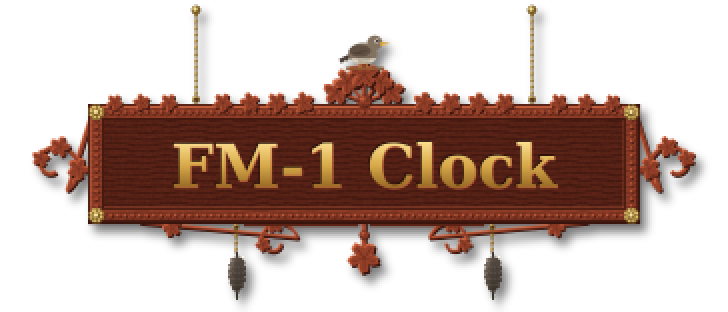
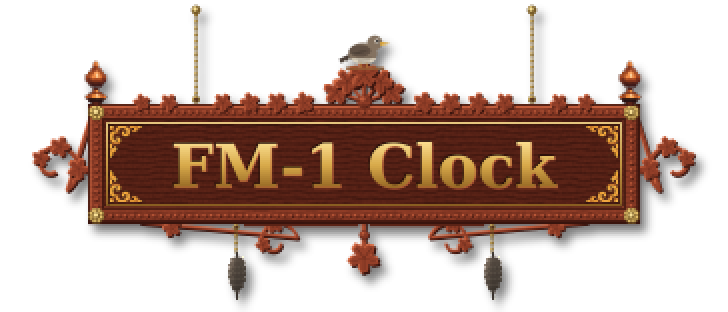
The sign takes the wall clock's gold: its scrollwork, a gilt fillet, its finials
From the wall clock's design, as it is on the screen: the gold scrollwork
from round its dial in the four corners of the sign's field (mirrored),
a gilt fillet round the field as round its window, and its turned finial
on each of the board's top corners. The cuckoo clock's carving stays.

Claude-Session: https://claude.ai/code/session_01MBzS5euR2B3mDuerG2FLdG

Changed region(s): [[0.0907, 0.2019, 0.8764, 0.6635], [0.8159, 0.2019, 0.9066, 0.375]]

diff --git a/tools/gen_sign.py b/tools/gen_sign.py
@@ -7,10 +7,12 @@
 Drawn as the clocks are (tools/gen_art_cuckoo.py, its own helpers): at the screen's scale, 8 x 8 samples a pixel,
 then twice the size, pixel for pixel, as the pictures of the clocks on the page are; on nothing (its background
 transparent), so it hangs on the page, its soft shadow on the page. Carved as the cuckoo clock is, in its dark red
-walnut (lighter: it hangs on the dark page), and then some: a crest of leaves at the top with the cuckoo on it, leaves along the top edge, a frame of
-carved beads round a sunk field, brass rosettes in its corners, scrolls curling out at either end; the letters cut
-in and gilded; under it fretwork, two scrolls and a leaf hanging on a stem between, and
-two pine cones on their chains; it hangs from two brass nails on two chains.
+walnut (lighter: it hangs on the dark page), and then some: a crest of leaves at the top with the cuckoo on it,
+leaves along the top edge, a frame of carved beads round a sunk field, brass rosettes in its corners, scrolls curling
+out at either end; the letters cut in and gilded. And from the wall clock (its design, assets/design.png, as it is
+on the screen): its gold scrollwork from round its dial in the field's corners, a gilt fillet round the field as
+round its window, its turned finial on each top corner. Under it fretwork, two scrolls and a leaf hanging on a stem
+between, and two pine cones on their chains; it hangs from two brass nails on two chains.
 --check: fail if docs/screens/sign.png is not what this makes.
 """
 import argparse
@@ -21,6 +23,7 @@ from pathlib import Path
 import numpy as np
 from PIL import Image, ImageFilter, ImageFont
 
+import gen_art as GA                             # (the wall clock's: its gold scrollwork, its finial, from the design)
 import gen_art_cuckoo as A
 
 ROOT = Path(__file__).resolve().parents[1]
@@ -138,6 +141,25 @@ def over(img, spr, x0, y0):
     reg[...] = spr + reg * (1 - spr[..., 3:])
 
 
+def from_design(box, mask, scale):
+    """a piece of the wall clock's design (assets/design.png) as a sprite: its pixels where mask is, scaled to the
+    screen as the clock is (premultiplied RGBA)"""
+    im = np.asarray(Image.open(GA.SRC).convert("RGB")).astype(np.float32)
+    x0, y0, x1, y1 = box
+    m = mask(im)[y0:y1, x0:x1].astype(np.float32)
+    pre = np.concatenate([im[y0:y1, x0:x1] / 255 * m[..., None], m[..., None]], axis=2)
+    w, h = int(round((x1 - x0) * scale)), int(round((y1 - y0) * scale))
+    return np.stack([np.asarray(Image.fromarray(pre[..., c], "F").resize((w, h), Image.BOX)) for c in range(4)], axis=2)
+
+
+def spandrel(im):
+    """the gold scrollwork in the corners round the wall clock's dial (and its dark edge), not the dial"""
+    R, G, B = im[..., 0], im[..., 1], im[..., 2]
+    yy, xx = np.mgrid[0:im.shape[0], 0:im.shape[1]]
+    off = np.hypot(xx - GA.HUB[0], yy - GA.HUB[1]) > GA.RING_R + 4
+    return GA.dilate((R > 150) & (G > 90) & (R - B > 90) & (G - B > 40) & off, 2) & off
+
+
 def build():
     cv = A.Canvas(W, H)
     for hx in HOOKS:                              # the chains: from the two nails straight down to the board's rings
@@ -179,12 +201,17 @@ def build():
     cv.rect(fx0, fy0, fx1, fy1, A.wood(SW_D, SW_X, False, 302, period=3.0))
     cv.rect(fx0, fy1 - 0.6, fx1, fy1, SW_L, 0.35)
     cv.rect(fx1 - 0.6, fy0, fx1, fy1, SW_L, 0.25)
+    g = gold(fy0, fy1)                            # a gilt fillet round the field, as round the wall clock's window
+    for x0_, y0_, x1_, y1_ in ((fx0 + 1.2, fy0 + 1.2, fx1 - 1.2, fy0 + 1.9), (fx0 + 1.2, fy1 - 1.9, fx1 - 1.2, fy1 - 1.2),
+                               (fx0 + 1.2, fy0 + 1.2, fx0 + 1.9, fy1 - 1.2), (fx1 - 1.9, fy0 + 1.2, fx1 - 1.2, fy1 - 1.2)):
+        cv.rect(x0_ + 0.35, y0_ + 0.4, x1_ + 0.35, y1_ + 0.4, (20, 6, 3), 0.7)
+        cv.rect(x0_, y0_, x1_, y1_, g)
     for x, y in ((BX0 + 4.2, BY0 + 4.2), (BX1 - 4.2, BY0 + 4.2), (BX0 + 4.2, BY1 - 4.2), (BX1 - 4.2, BY1 - 4.2)):
         rosette(cv, x, y, 4.2)                    # brass rosettes in the corners, over the beads
     for hx in HOOKS:                              # the rings the chains hang from, on its top
         ring(cv, hx, BY0 - 2.2)
     for s_ in (-1, 1):                            # leaves along the top edge, turned out in turn, smaller to the ends
-        for i, t in enumerate(np.arange(30.0, 128.0, 13.5)):
+        for i, t in enumerate(np.arange(30.0, 118.0, 13.5)):
             if abs(t - abs(HOOKS[0] - CX)) < 7:
                 continue                          # (not over the rings)
             leaf(cv, CX + s_ * t, BY0 - 0.6, 5.6 - 1.6 * t / 128, s_ * (40 if i % 2 else 12))
@@ -215,6 +242,15 @@ def build():
     cn = cone()
     for s_ in (-1, 1):
         over(scr, cn, int(round(CX + s_ * 64 - cn.shape[1] / 2)), int(round(BY1 + 14)))
+    # the wall clock's: its gold scrollwork from round its dial in the field's corners, its finials on the board's
+    sp = from_design((418, 298, 524, 404), spandrel, 240 / 1254 * 0.9)      # top corners
+    sh_, sw_ = sp.shape[:2]
+    for flip, x, y in (((), fx0 + 2, fy0 + 2), ((1,), fx1 - 2 - sw_, fy0 + 2), ((0,), fx0 + 2, fy1 - 2 - sh_),
+                       ((0, 1), fx1 - 2 - sw_, fy1 - 2 - sh_)):
+        over(scr, np.flip(sp, flip) if flip else sp, int(round(x)), int(round(y)))
+    fin = from_design((585, 4, 675, 136), GA.clock_mask, 240 / 1254)
+    for x in (BX0 + 4.2, BX1 - 4.2):
+        over(scr, fin, int(round(x - fin.shape[1] / 2)), int(round(BY0 + 1 - fin.shape[0])))
     # its shadow on the page: 3 px right, 4 down, soft, half as dark as black; straight alpha for the PNG
     a = scr[..., 3]
     sh = np.zeros_like(a)

diff --git a/docs/HOW-IT-WORKS.md b/docs/HOW-IT-WORKS.md
@@ -175,7 +175,7 @@ job of `.github/workflows/build.yml` on every push to the default branch.
 | [tools/settime.py](../tools/settime.py) | Sets the clock to the computer's time over MIDI |
 | [tools/emu_ci.sh](../tools/emu_ci.sh), [tools/emu_check.sh](../tools/emu_check.sh) | The package in fm1-emu |
 | [web/](../web/) | The web page and its installer: `index.html`, `make_site.py`, SLOOP's `fm1pkg.js` and `fm1ota.js` |
-| [tools/gen_sign.py](../tools/gen_sign.py) | The site's sign, "FM-1 Clock" carved and gilded on walnut, the cuckoo on its crest, hung on the page (transparent): `docs/screens/sign.png` |
+| [tools/gen_sign.py](../tools/gen_sign.py) | The site's sign, "FM-1 Clock" carved and gilded on walnut, the cuckoo on its crest, the wall clock's gold scrollwork and finials, hung on the page (transparent): `docs/screens/sign.png` |
 | [web/app/](../web/app/) | The clock in the browser: `build.sh` (the firmware to WebAssembly), `web_host.c` (the page's FM-1), `worklet.js`, `clock.js` |
 | [tests/run_clock.sh](../tests/run_clock.sh), [tests/clk/](../tests/clk/), [tests/scripts/](../tests/scripts/) | The tests |
 | [assets/design.png](../assets/design.png) | The design |
